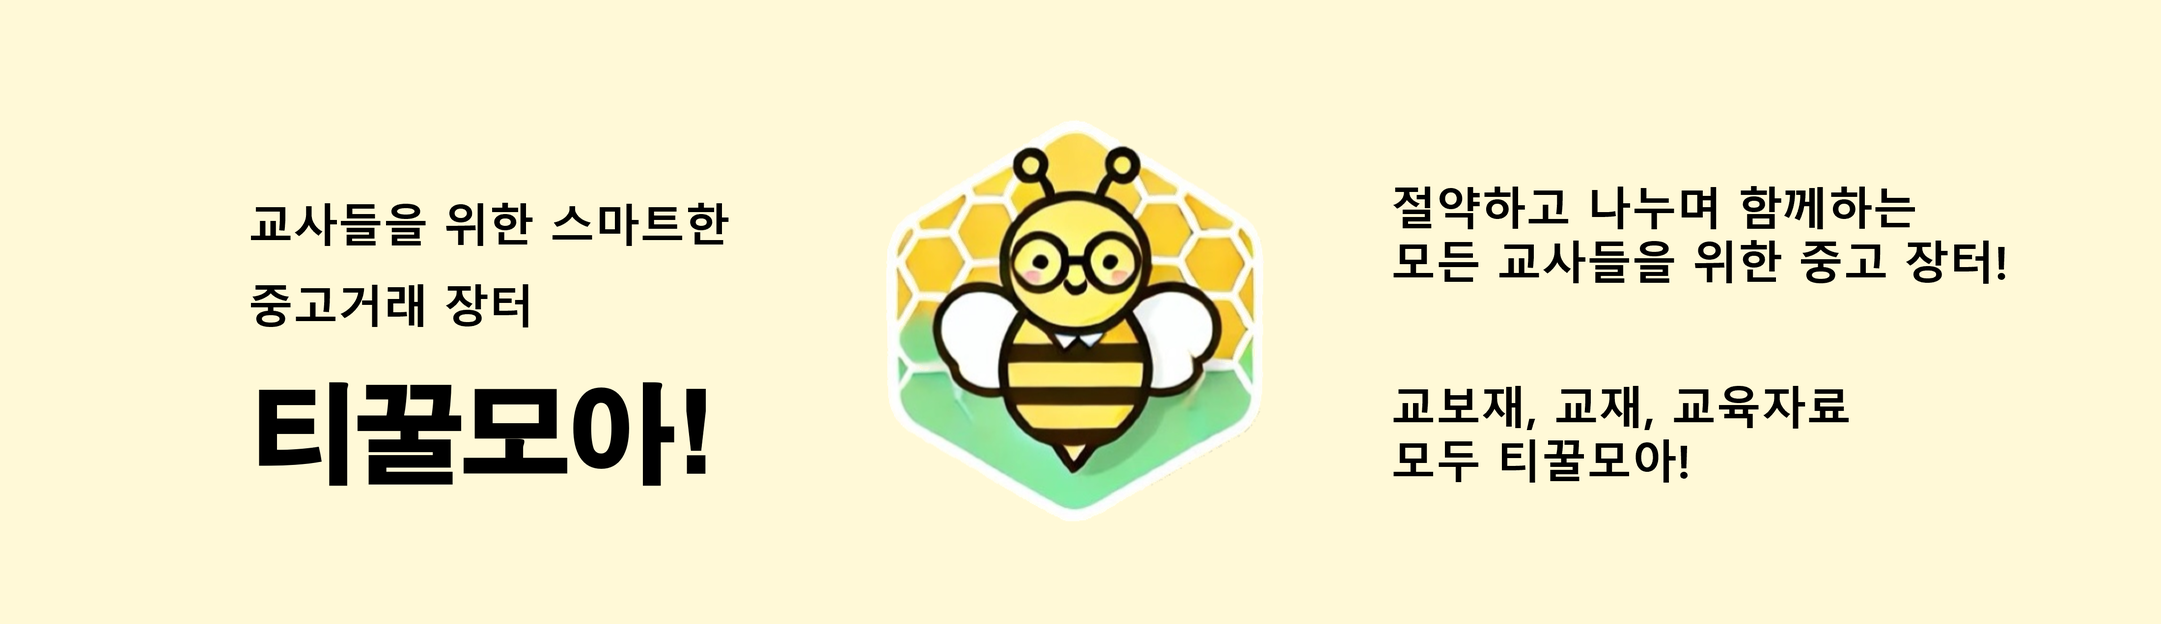
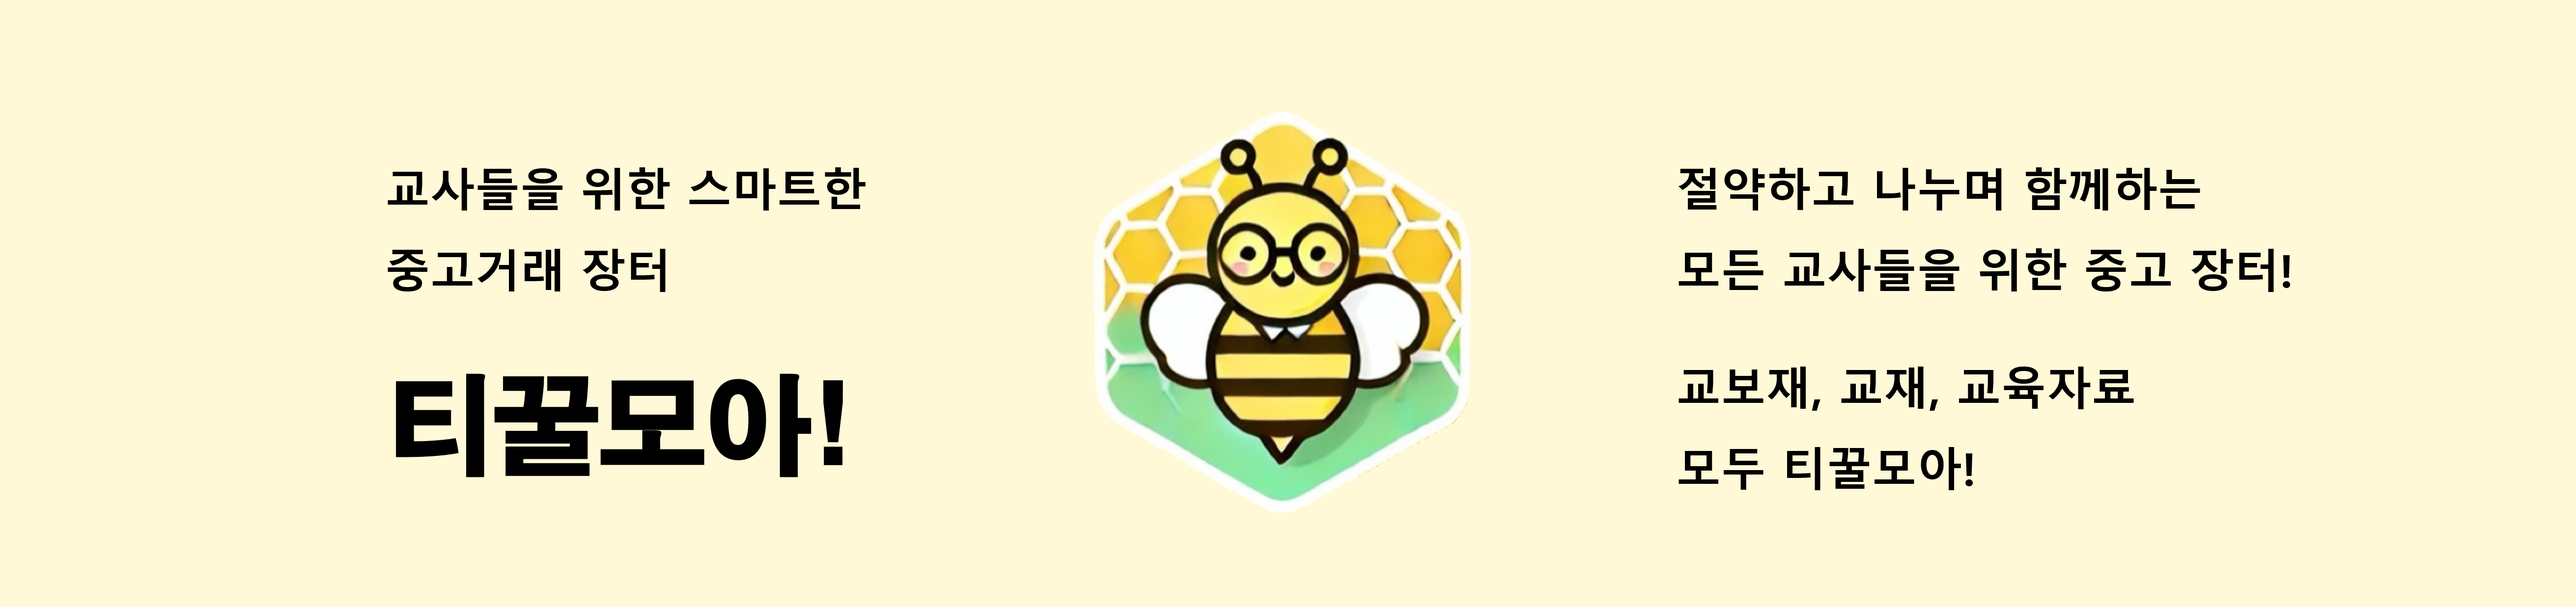
gh/login 페이지 이동 서블릿 및 배경없는 로고 추가

diff --git a/src/main/java/com/ttt/controller/common/ToLoginPageServlet.java b/src/main/java/com/ttt/controller/common/ToLoginPageServlet.java
@@ -1,0 +1,26 @@
+package com.ttt.controller.common;
+
+import java.io.IOException;
+import javax.servlet.ServletException;
+import javax.servlet.annotation.WebServlet;
+import javax.servlet.http.HttpServlet;
+import javax.servlet.http.HttpServletRequest;
+import javax.servlet.http.HttpServletResponse;
+
+@WebServlet("/member/login")
+public class ToLoginPageServlet extends HttpServlet {
+	private static final long serialVersionUID = 1L;
+       
+    public ToLoginPageServlet() {
+        super();
+    }
+
+	protected void doGet(HttpServletRequest request, HttpServletResponse response) throws ServletException, IOException {
+		request.getRequestDispatcher("/WEB-INF/views/enroll/login.jsp").forward(request, response);
+	}
+
+	protected void doPost(HttpServletRequest request, HttpServletResponse response) throws ServletException, IOException {
+		doGet(request, response);
+	}
+
+}
